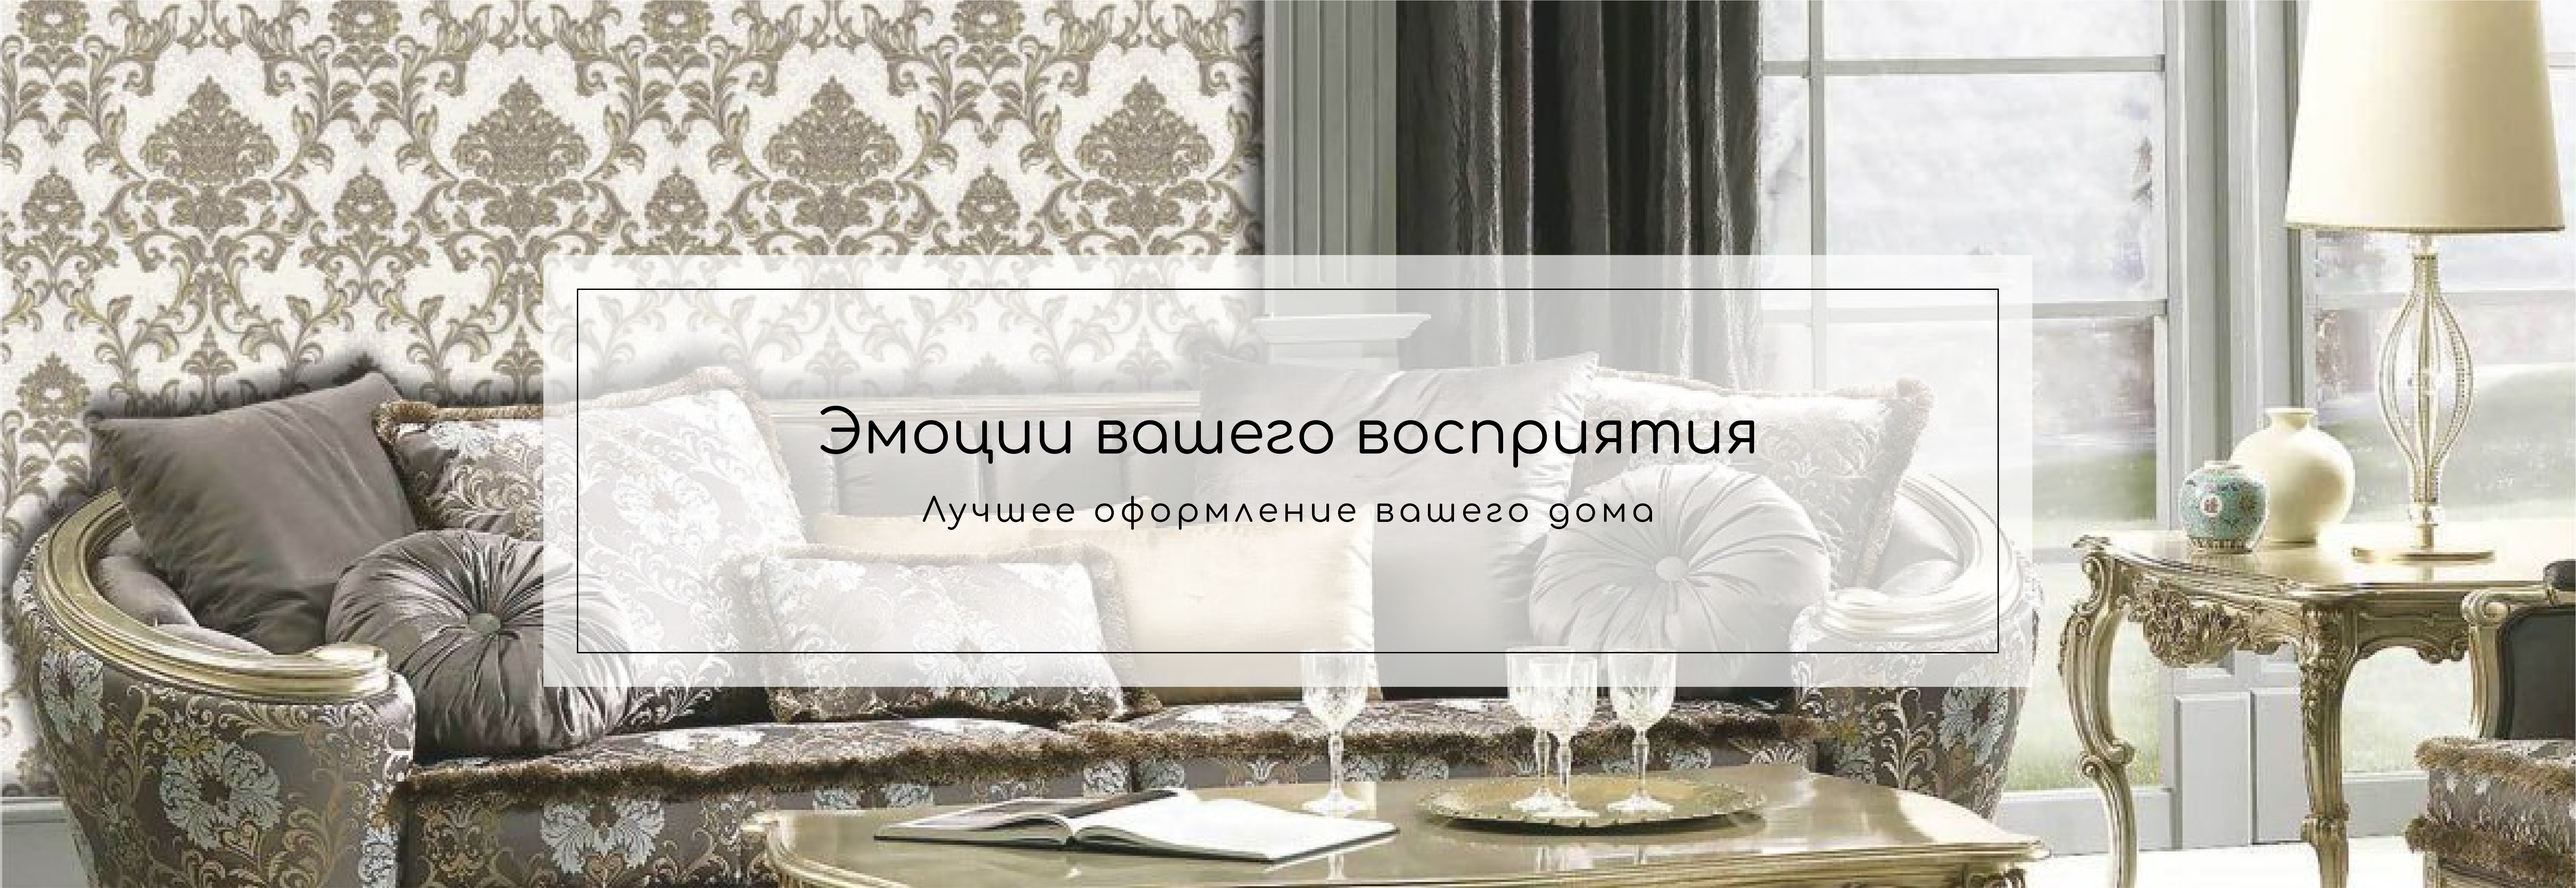
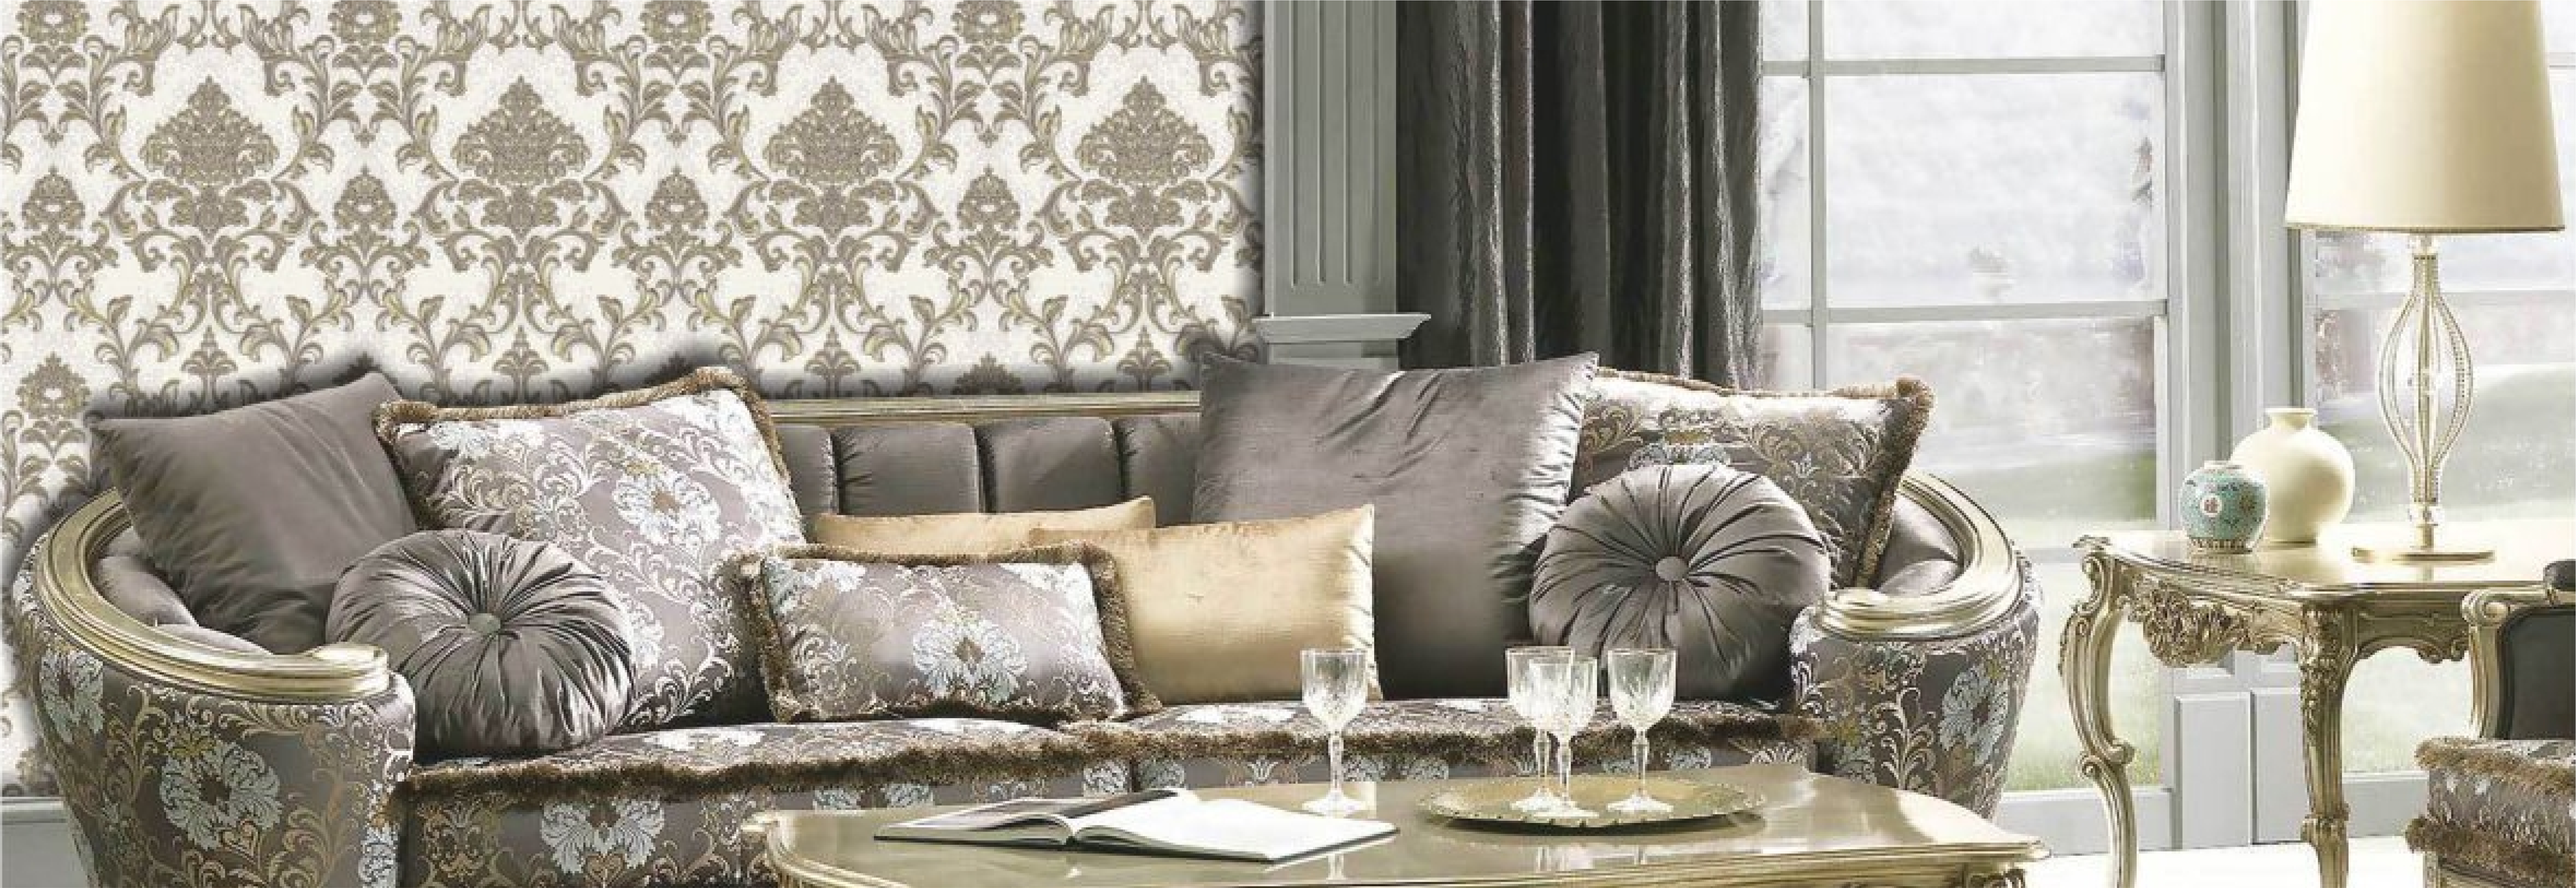
push

Changed region(s): [[0.1875, 0.2786, 0.8124, 0.7739]]

diff --git a/src/Styles/Banner.css b/src/Styles/Banner.css
@@ -1,4 +1,79 @@
-.banner img{
+@import url(https://fonts.googleapis.com/css?family=Comfortaa:300,regular,500,600,700);
+
+.banner{
     width:100%;
     height: 660px;
+    background-size: cover;
+    background-image: url('../Images/Header.png');
+    display: flex;
+    align-items: center;
+    justify-content: center;
+}
+.title h1{
+    color: #000;
+text-align: center;
+font-family: 'Comfortaa',sans-serif;
+font-size: 45px;
+font-style: normal;
+font-weight: 400;
+letter-spacing: 3px;
+}
+.title p{
+    color: #000;
+    text-align: center;
+    font-family: 'Comfortaa',sans-serif;
+    font-size: 25px;
+    font-style: normal;
+    font-weight: 400;
+    letter-spacing: 3px;
+}
+.title h1::selection{
+    color: #BC955D;
+    background-color: #000;
+}
+.title p::selection{
+    color: #BC955D;
+    background-color: #000;
+}
+.title{
+    padding: 30px;
+    width: 100%;
+    background-color: #fff9;
+}
+.border{
+    display: flex;
+    align-items: center;
+    justify-content: center;
+    flex-direction: column;
+    height: 325px;
+    border: 1px solid #000;
+
+}
+
+@media screen and (max-width:900px) {
+    .title h1{
+    font-size: 25px;
+    }
+    .title p{
+        font-size: 15px;
+    }
+
+}
+@media screen and (max-width:450px) {
+    .title h1{
+    font-size: 15px;
+    }
+    .title p{
+        font-size: 10px;
+    }
+
+}
+@media screen and (max-width:340px) {
+    .title h1{
+    font-size: 10px;
+    }
+    .title p{
+        font-size: 5px;
+    }
+
 }

diff --git a/src/Header/Header.jsx b/src/Header/Header.jsx
@@ -34,19 +34,30 @@ const Header = () => {
              <Link to={'/contacts'}>
              <a href="#">Контакты</a>
              </Link>
-             <Menu>
-  <MenuButton color={'#000'}  backgroundColor={'#BC955D'} _hover={''} as={Button}>
-    Actions
+    
+              </div>
+                <div className='responsive-menu'>
+      <Menu>
+  <MenuButton color={'#000'}  backgroundColor={'#BC955D'} _hover={'none'} as={Button}>
+    Menu
   </MenuButton>
-  <MenuList>
-    <MenuItem>Download</MenuItem>
-    <MenuItem>Create a Copy</MenuItem>
-    <MenuItem>Mark as Draft</MenuItem>
-    <MenuItem>Delete</MenuItem>
-    <MenuItem>Attend a Workshop</MenuItem>
+  <MenuList backgroundColor={'#BC955D'} >
+    <Link to={'/about'}>
+       <MenuItem backgroundColor={'#BC955D'} color={'#fff'}>О нас</MenuItem>
+    </Link>
+    <Link to={'/catalog'}>
+       <MenuItem backgroundColor={'#BC955D'} color={'#fff'}  borderTop={'1px solid #fff'}>Каталог</MenuItem>
+    </Link>
+    <Link to={'/news'}>
+      <MenuItem backgroundColor={'#BC955D'} color={'#fff'}  borderTop={'1px solid #fff'}>Новости</MenuItem>
+    </Link>
+    
+   <Link to={'/contacts'}>
+   <MenuItem backgroundColor={'#BC955D'} color={'#fff'}  borderTop={'1px solid #fff'}>Контакты</MenuItem>
+   </Link>
   </MenuList>
 </Menu>
-              </div>
+      </div>
             </div>
           </div>
         </div>

diff --git a/src/Main/Banner.jsx b/src/Main/Banner.jsx
@@ -1,11 +1,16 @@
-import Baner  from'../Images/Header.png'
 import '../Styles/Banner.css'
 const Banner = () => {
   return (
     <div className='banner'>
-      <img src={Baner} alt="" />
+      <div className="container">
+      <div className="title">
+        <div className="border">
+      <h1>Эмоции вашеговосприятия</h1>
+      <p>Лучшее оформление вашего дома</p>
+        </div>
+      </div>
+      </div>
     </div>
   )
 }
-
 export default Banner

diff --git a/src/Styles/Header.css b/src/Styles/Header.css
@@ -24,3 +24,15 @@ font-weight: 400;
 .header-links ::selection{
     background-color: #BC955D;
 }
+.responsive-menu{
+    display: none
+}
+
+@media screen and (max-width:720px) {
+    .responsive-menu{
+        display: flex;
+    }
+    .header-links{
+        display: none;
+    }
+}
